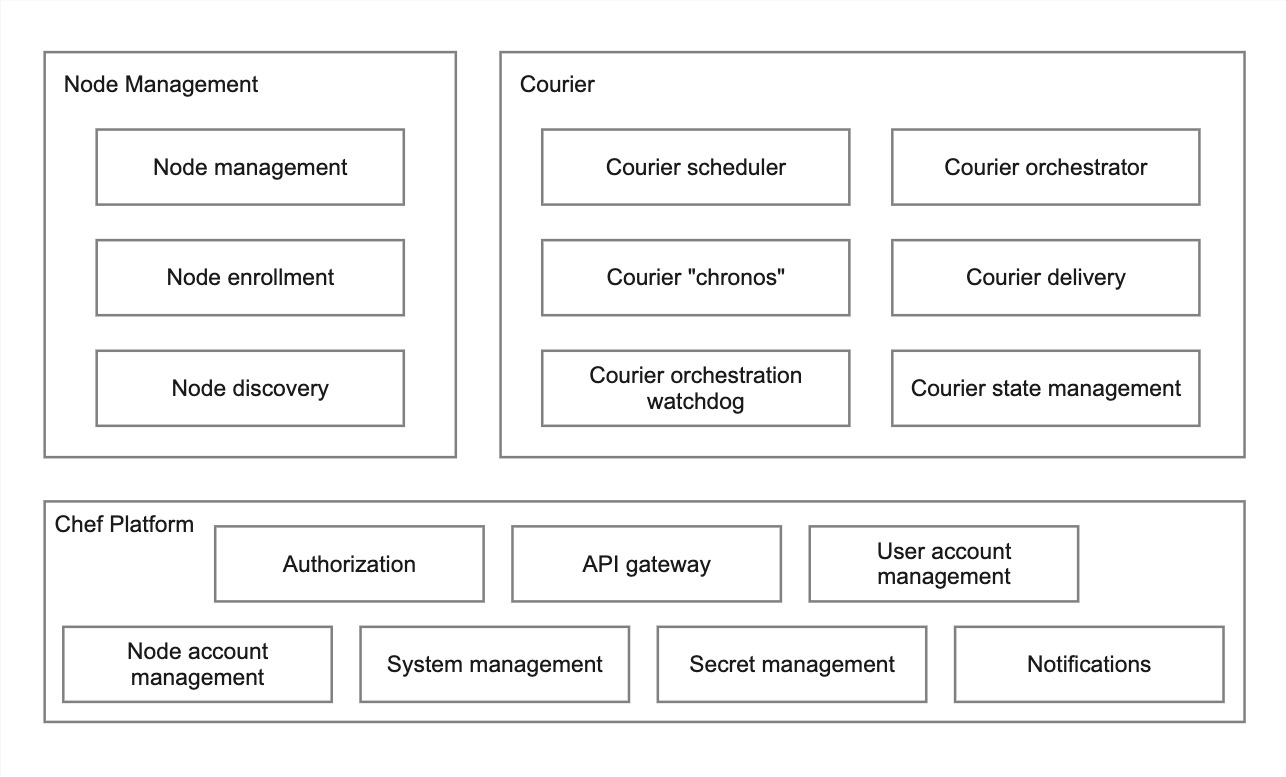
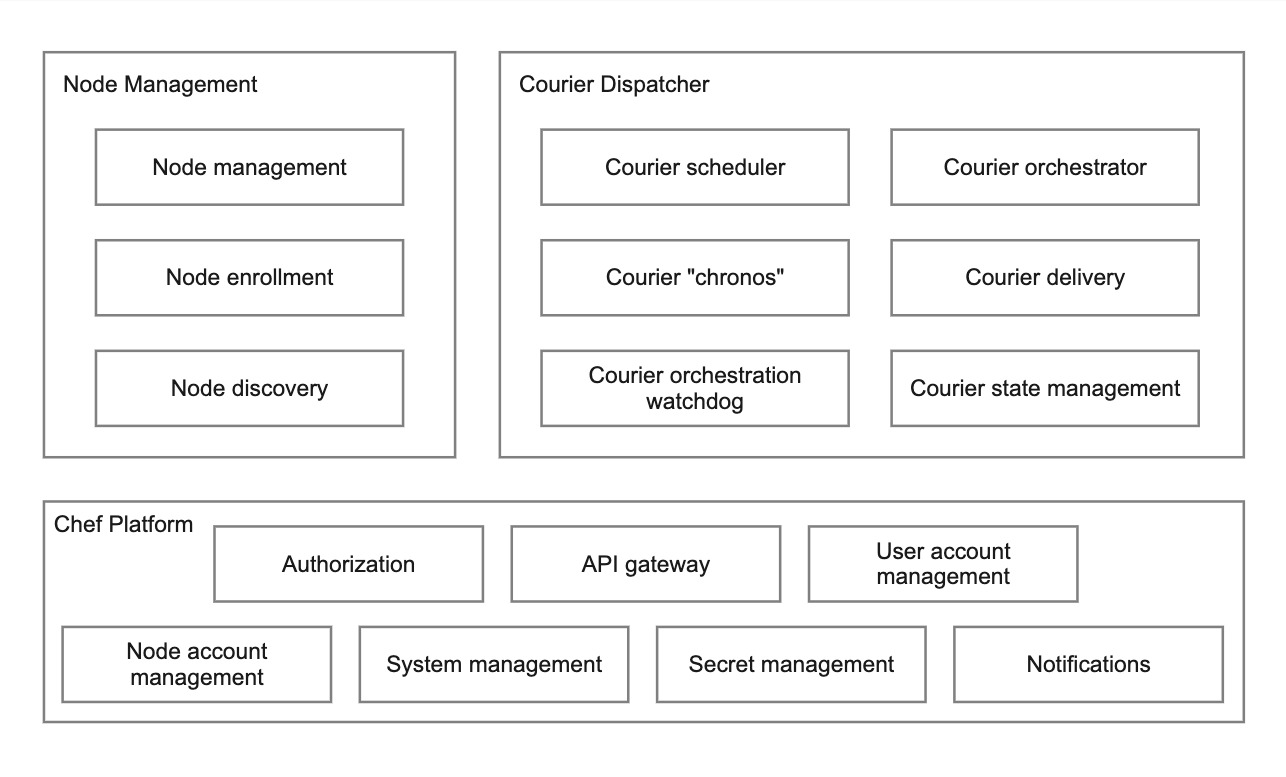
updated courier intro

diff --git a/new-horizons/100-courier/seminar/slides/marp.md b/new-horizons/100-courier/seminar/slides/marp.md
@@ -14,6 +14,19 @@ style: |
   footer {
     font-size: 10px;
   }
+  .columns-2 {
+    display: grid;
+    grid-template-columns: repeat(2, minmax(0, 1fr));
+    gap: 1rem;
+  }
+  .small li {
+    font-size: 70%;
+  }
+  .columns-3 {
+    display: grid;
+    grid-template-columns: repeat(3, minmax(0, 1fr));
+    gap: 1rem;
+  }
 
 title: Introduction to Chef Courier
 description: New Horizons Series - level 100. Introduction to Chef Courier
@@ -42,9 +55,35 @@ Job orchestration streamlines and optimizes frequently occurring workflows, or e
 
 Courier provides the ability to rapidly integrate new tools and technologies, develop and iterate end-to-end processes, and standardize and maintain permissions, auditing, and business rules across various environments. Courier also offers a unified view for monitoring processes, infrastructure, and systems from a single location.
 -->
+
 ---
 ## Purpose
 Provide user the ability to execute and verify any action (_**however**_) on any set/subset of nodes (_**wherever**_), at any time interval (_**whenever**_) including immediately, subsequently, or at periodic intervals. 
+
+<!--
+Enable users to securely orchestrate and validate actions across any node or node group at desired times, including immediate execution, sequential tasks, or recurring operations, while ensuring flexibility and precision in job orchestration.
+
+In addition Courier is intended to enable workflow and tool consolodation and demcrotization.
+-->
+
+
+---
+<!-- _paginate: "false" -->
+![bg right](https://images.unsplash.com/photo-1635241161466-541f065683ba)
+<!-- image source: "https://unsplash.com/photos/a-white-object-on-a-blue-background-with-a-shadow-9-dkDEXWGzI" -->
+
+## Job Dimensions
+- When
+- Where
+- What / How
+
+<!-- 
+When (whenever) puts you in control over the start of a workflow, this can be a one time action, a re-occuring action, or an event driven workflow. Diving deeper into the re-occuring jobs this can be as simple as every 30 mins, or more complicated such as every third thursday except on banking holidays. 
+
+Where is about controlling what nodes and what order are included in a job. The Where dimension allows you to use static lists of servers and dynamic queries to identify where a job should run. However, the a list of nodes alone is not enough to control the blast radius, Courier lets your group those node lists/queries into distribution groups to control the order of execution and define success criteria to stop distribution before it impacts the whole fleet.
+
+The what dimension allows you to create workflows that perform the work using whatever tools you have. Courier stands out for its ability to integrate with a wide range of automation tools (e.g., Ansible, Puppet, Chef, Jenkins, Docker, Kubernetes, and more), without requiring users to replace their existing scripts or commands. This approach acknowledges the reality of heterogeneous infrastructure and tooling within organizations, allowing Courier to serve as a unifying layer for executing workflows across various automation assets.
+-->
 
 ---
 <!-- _header: "" -->
@@ -68,6 +107,14 @@ Security teams can find Courier particularly beneficial for incident management,
 
 Additionally, job orchestration is critical for cloud orchestration, container management, and security orchestration, among other areas. It allows organizations to manage complex deployments, automate container management tasks, and ensure that automated security tools work together effectively.
 -->
+
+
+
+
+
+
+
+
 
 
 
@@ -98,30 +145,292 @@ At launch users interact with Courier primarily through the CLI, and an extesniv
 - Courier
 - Chef Platform
 
+
+---
+![bg right:58% w:100%](./images/courier-flow.jpg)
+## Courier Components
+- Courier Dispatcher
+- Message Queue
+- Courier Runner
+- Courier Interpreter
+
+
+
+
+
+
+<!-->
+
+
+
+---
+<!-- _paginate: "false" -->
+<!-- _header: "" -->
+<!-- _footer: "" -->
+![bg](https://raw.githubusercontent.com/chef/architecture-center/main/marp/images/bg-gray.png)
+# Terminology
+
+
 ---
 ![bg right](https://images.unsplash.com/photo-1583361704493-d4d4d1b1d70a)
 <!-- image source: "https://unsplash.com/photos/white-printer-paper-with-black-text-1UDjq8s8cy0" -->
-# Terminology
-•	Slide: Terminology 
-•	Speaking Notes: quick review of any unique terminology
+## Courier Dispatcher
+
 
 ---
-# Overview of Infrastructure as Code (IaC)
-•	Slide: Overview of Infrastructure as Code (IaC)
-•	Speaking Notes: Explain the concept of IaC, explain provisioning vs post provisioning, and Target Mode vs Agent Mode
+![bg right](https://images.unsplash.com/photo-1583361704493-d4d4d1b1d70a)
+<!-- image source: "https://unsplash.com/photos/white-printer-paper-with-black-text-1UDjq8s8cy0" -->
+## Courier Runner
+
 
 ---
-# Part 2: 
-#### Tool(s) introduction 
-###### Chef, Test Kitchen, and InSpec
+![bg right](https://images.unsplash.com/photo-1583361704493-d4d4d1b1d70a)
+<!-- image source: "https://unsplash.com/photos/white-printer-paper-with-black-text-1UDjq8s8cy0" -->
+## Interpreter
 
 ---
-# Introduction to Chef
-•	Speaking Notes: Brief on Chef, components (workstation, Chef server, nodes), and cookbooks/policy files.
+![bg right](https://images.unsplash.com/photo-1583361704493-d4d4d1b1d70a)
+<!-- image source: "https://unsplash.com/photos/white-printer-paper-with-black-text-1UDjq8s8cy0" -->
+## Job
+
+
+
+---
+![bg right](https://images.unsplash.com/photo-1583361704493-d4d4d1b1d70a)
+<!-- image source: "https://unsplash.com/photos/white-printer-paper-with-black-text-1UDjq8s8cy0" -->
+## Node
+
+
+
+
+
+
+---
+<!-- _paginate: "false" -->
+<!-- _header: "" -->
+<!-- _footer: "" -->
+![bg](https://raw.githubusercontent.com/chef/architecture-center/main/marp/images/bg-gray.png)
+
+
+# Scenarios
+
+
+
+---
+<!-- _paginate: "false" -->
+![bg right](https://images.unsplash.com/photo-1621252179027-94459d278660)
+<!-- image source: "https://unsplash.com/photos/woman-in-black-long-sleeve-shirt-covering-her-face-with-her-hands-bmJAXAz6ads" -->
+
+# Scenario #1
+It is Thursday evening now and there is a security issue (Log4j) reported. I had plans on Saturday. Now my plans are ruined because I must find servers having the issue and apply patches onto them.
+
+---
+
+<div class="columns-2 small"><div>
+
+## Without Courier
+
+1. Has no clue how many servers are impacted
+1. Non availability of out-of-the-box scans to run
+1. Manual process to apply/track fix across servers in multiple environments
+1. No standard reports to see effect of changes
+1. Absolutely no control over timeline of events
+
+</div><div>
+
+## With Courier
+
+1. Creates a _**Node List**_ to match servers that have Java installed
+1. Creates a Courier _**Job**_ on the _**Node List**_ to do
+    - Run an **InSpec** scan to detect log4j
+    - Views complete report of impacted nodes
+    - Understands what needs to be done based on failing controls
+1. Creates another _**Job**_ to
+    - Gracefully apply to 5 servers at a time
+    - Apply remediation with a _**Chef Cookbook**_ 
+1. Picks the _**Schedule**_ that the _**Job**_ should be executed on Friday early morning with least traffic
+1. Submit the report of job execution once complete
+1. Happily, keep the weekend plans
+
+</div></div>
+
+<!-- 
+A job orchestration system aids in swiftly addressing vulnerabilities like Log4j by automating the detection and remediation process across impacted nodes. Initially, it identifies affected nodes through automated scanning tasks. Once identified, the system can prioritize and sequentially execute remediation scripts, ensuring that critical systems remain operational by carefully managing resource allocation and maintaining service availability. This orchestrated approach ensures a coordinated, efficient, and minimally disruptive response to such widespread vulnerabilities.
+-->
+
+---
+<!-- _paginate: "false" -->
+![bg right](https://images.unsplash.com/flagged/photo-1579274216947-86eaa4b00475)
+<!-- image source: "https://unsplash.com/photos/electronic-wire-lot-zFYUsLk_50Y" -->
+
+# Scenario #2
+It's that time again... time to upgrade that troublesome piece of software that requires you to maintain a quorum. This time you were voted tribute, how will you updated the system while keeping the cluster online and the quorum valid?
+
+<!-- 
+ Maintaining a quorum is crucial for many distributed systems and clustering technologies to ensure high availability and prevent split-brain scenarios, especially during updates or upgrades. Software that typically involves clustering and might require quorum maintenance includes databases (like Microsoft SQL Server with Always On availability groups), container orchestration systems (such as Kubernetes), and various distributed data stores (Splunk, HashiCorp Vault) and messaging systems (Splunk). For detailed configurations and understanding of failover cluster quorum, you might find the article https://www.starwindsoftware.com/blog/understand-failover-cluster-quorum helpful on understanding what a cluster quorum failure is
+ -->
+
+---
+
+
+<div class="columns-2 small"><div>
+
+## Without Courier
+
+1. 
+1. 
+1. 
+1. 
+1. 
+
+</div><div>
+
+## With Courier
+
+1. 
+1. 
+    - 
+    - 
+    - 
+1. 
+    - 
+    -  
+1. 
+1. 
+1. 
+
+</div></div>
+
+<!--
+A job orchestration system streamlines the process of updating or upgrading software clusters by allowing for staged updates across nodes. It manages the complexity of ensuring that only a certain number of nodes are taken offline for updates at any given time, maintaining cluster availability and load balancing. This systematic approach minimizes downtime and ensures a smooth transition during upgrades, enhancing system stability and reliability without overwhelming the operational capacity of the cluster.
+-->
+
+---
+<!-- _paginate: "false" -->
+![bg right](https://images.unsplash.com/photo-1580795479172-6c29db0fd7c4)
+<!-- image source: "https://unsplash.com/photos/man-in-blue-jacket-using-computer-aMIiBe1Lnno" -->
+
+# Scenario #3
+Your Intrusion Detection System (IDS) raises and event. A machine running may be compromised. The event needs to be validated, machine needs to be quartined, and evidence collected.
 
 
 
 <!-- 
-The platform stands out for its ability to integrate with a wide range of automation tools (e.g., Ansible, Puppet, Chef, Jenkins, Docker, Kubernetes, and more), without requiring users to replace their existing scripts or commands. This approach acknowledges the reality of heterogeneous infrastructure and tooling within organizations, allowing Courier to serve as a unifying layer for executing workflows across various automation assets.
+ -->
 
+---
+
+
+<div class="columns-2 small"><div>
+
+## Without Courier
+
+1. 
+1. 
+1. 
+1. 
+1. 
+
+</div><div>
+
+## With Courier
+
+1. 
+1. 
+    - 
+    - 
+    - 
+1. 
+    - 
+    -  
+1. 
+1. 
+1. 
+
+</div></div>
+
+
+<!--
+A job orchestration system can significantly enhance the efficiency of responding to events detected by Intrusion Detection Systems (IDS) like Amazon GuardDuty. By automating responses to common or critical security alerts, the system can immediately execute predefined actions on affected nodes or across the infrastructure. This automation ensures a swift, consistent, and scalable response to potential threats, reducing the window of vulnerability and the need for manual intervention, thus maintaining system integrity and security at all times.
 -->
+
+
+
+---
+<!-- _paginate: "false" -->
+![bg right](https://images.unsplash.com/photo-1599949104055-2d04026aee1e)
+<!-- image source: "https://unsplash.com/photos/man-in-blue-sweater-using-silver-macbook-vIQDv6tUHYk" -->
+
+# Scenario #4
+Patching critical systems
+
+
+
+<!-- 
+ -->
+
+---
+
+
+<div class="columns-2 small"><div>
+
+## Without Courier
+
+1. 
+1. 
+1. 
+1. 
+1. 
+
+</div><div>
+
+## With Courier
+
+1. 
+1. 
+    - 
+    - 
+    - 
+1. 
+    - 
+    -  
+1. 
+1. 
+1. 
+
+</div></div>
+
+
+<!--
+A job orchestration system facilitates the seamless application of software and operating system patches across a vast server fleet by scheduling and automating patch deployment. It ensures critical systems remain operational by staging the patch process, applying updates to non-critical systems first, and monitoring for failures. If a patch fails, the system can halt further deployment, preventing widespread impact. This approach allows for maintaining service availability and system integrity while ensuring the entire fleet is updated securely and efficiently.
+-->
+
+
+
+
+
+
+
+
+
+
+
+
+
+
+
+
+
+
+
+
+
+
+
+
+
+
+---
+# Part 2: 
+#### Hands-On-Labs 
+
